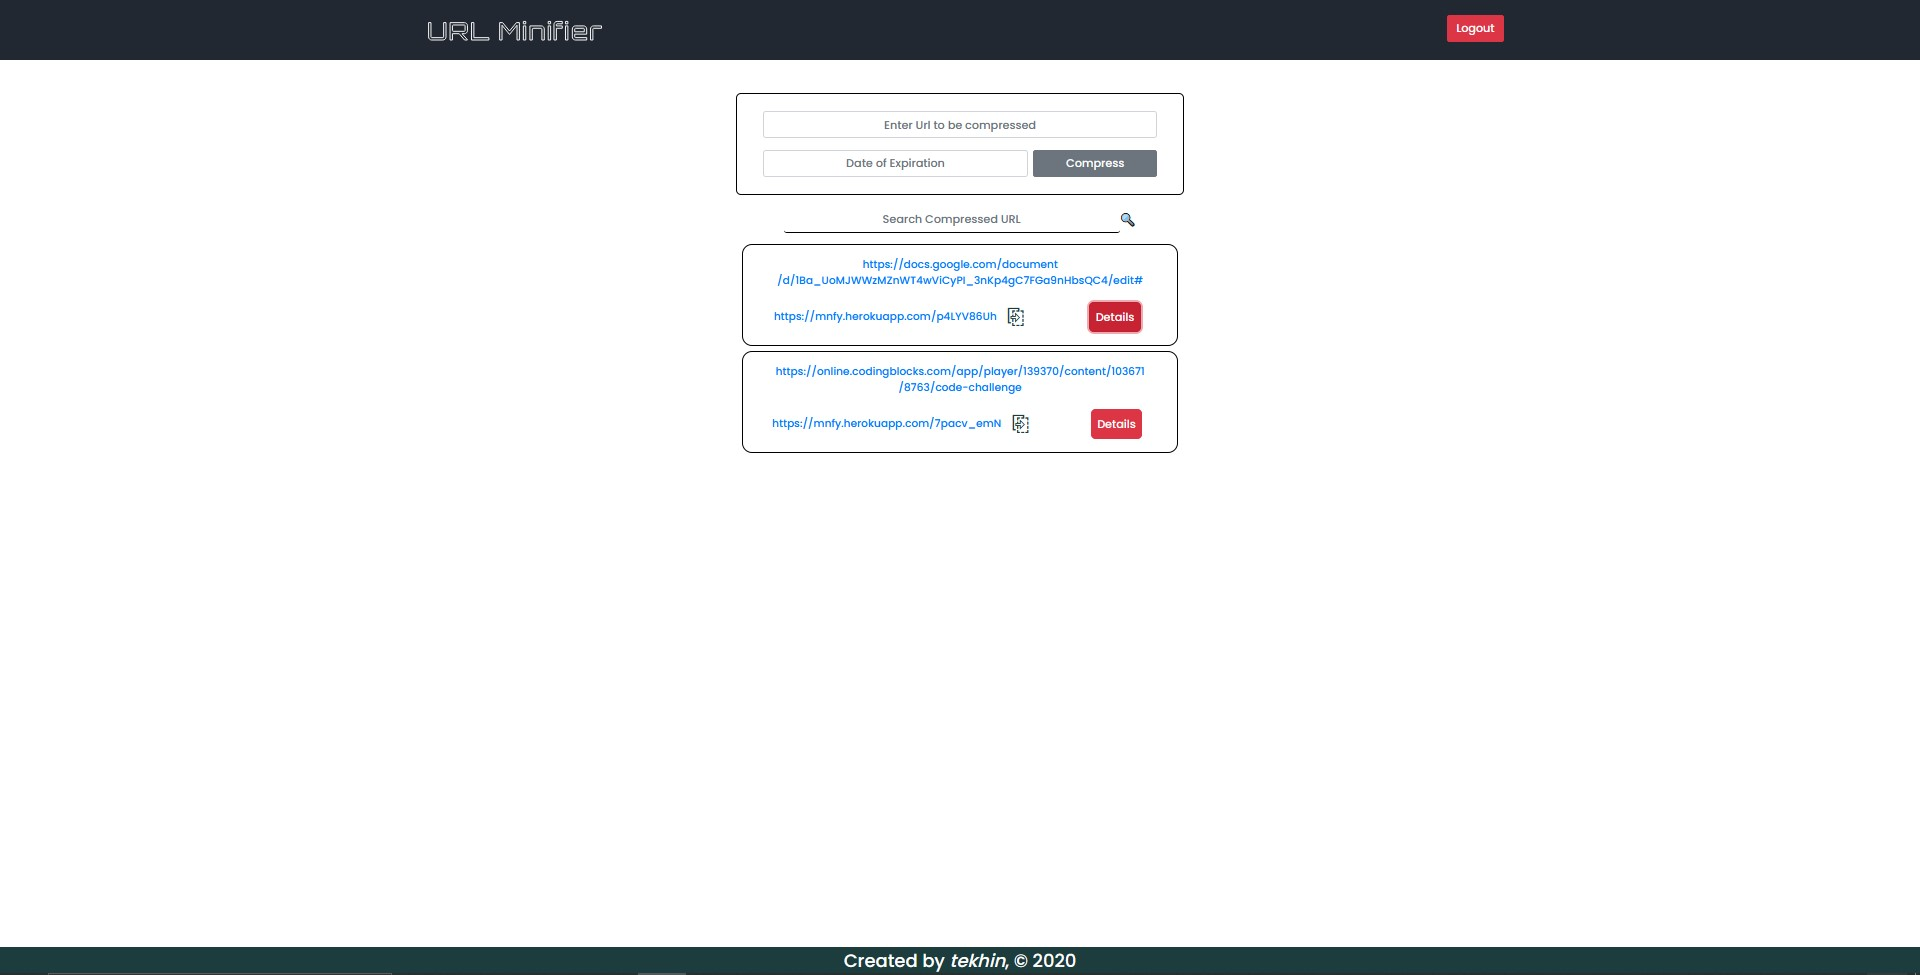
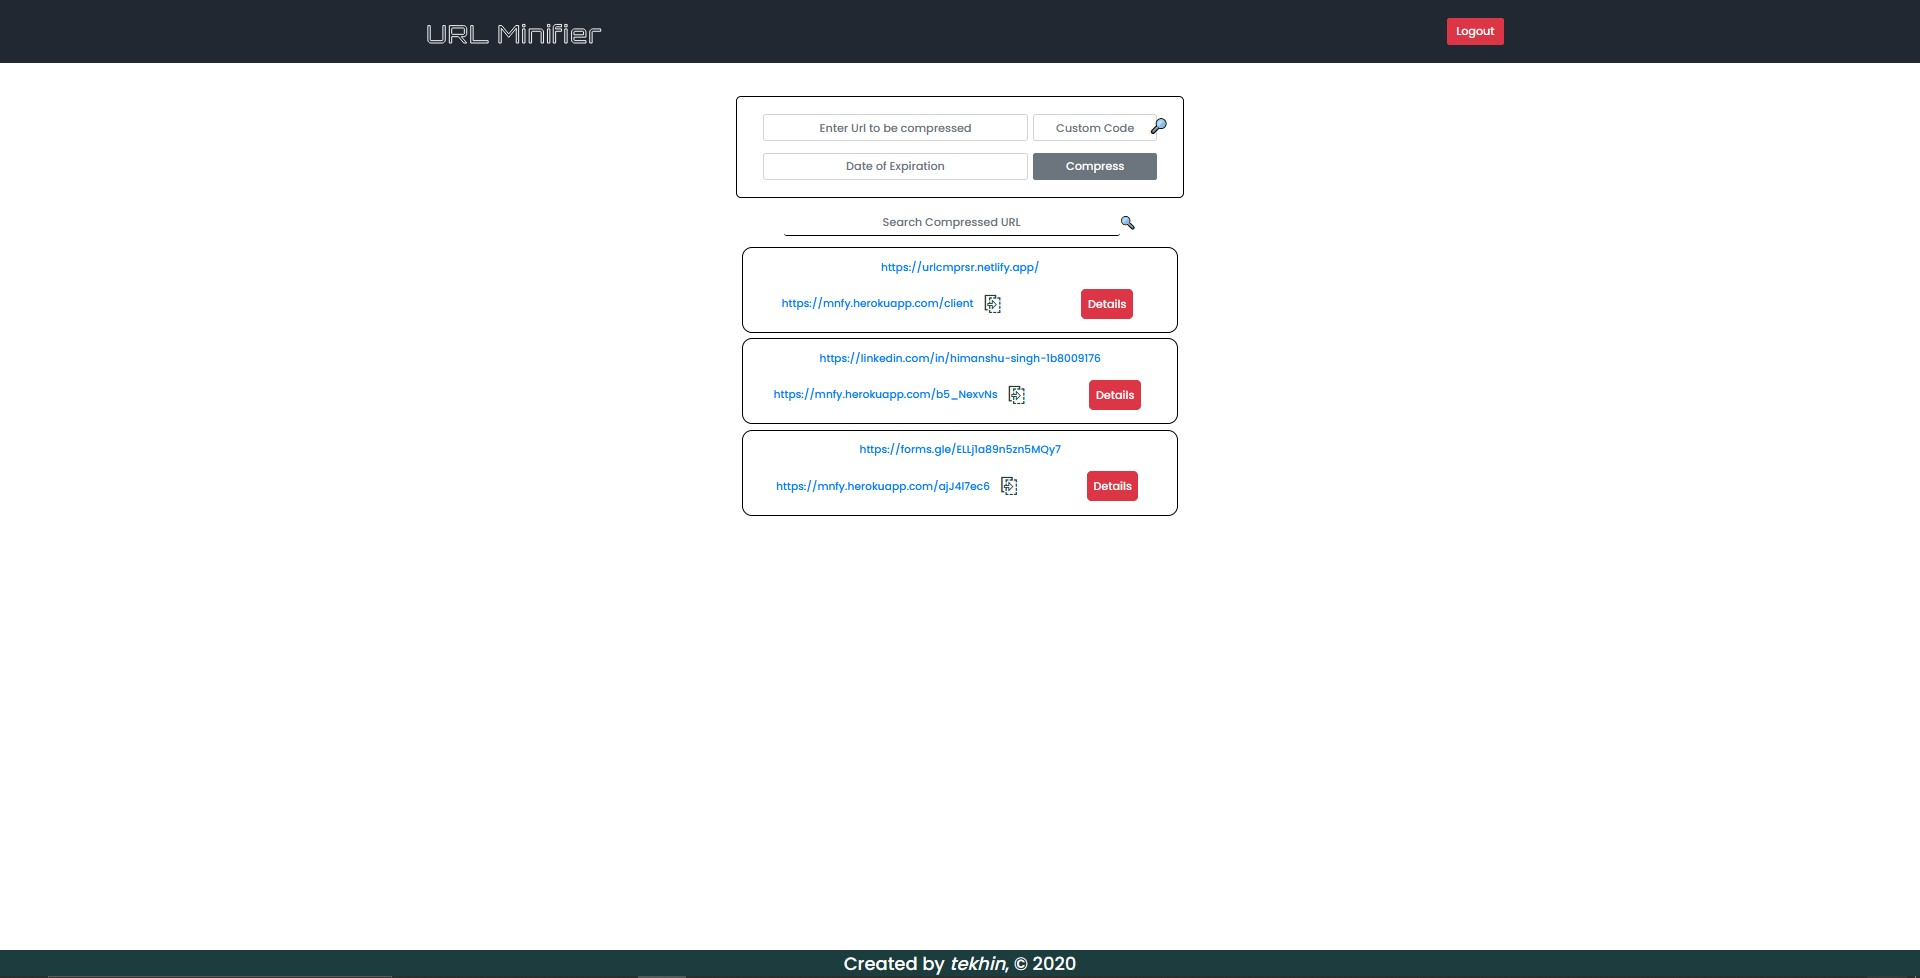
Readme Updated

diff --git a/README.md b/README.md
@@ -36,6 +36,8 @@ Here one can create a new `Compressed URL` with it's `Expiration Date` if needed
 
 Also, one can see all the `compressed URLs` by him with the `Original URLs` and can copy it for sharing.
 
+One can also choose `Custom Code` for the compressed URL.
+
 <br/><br/>
 
 ## **URL Details and Update Section 📝**
